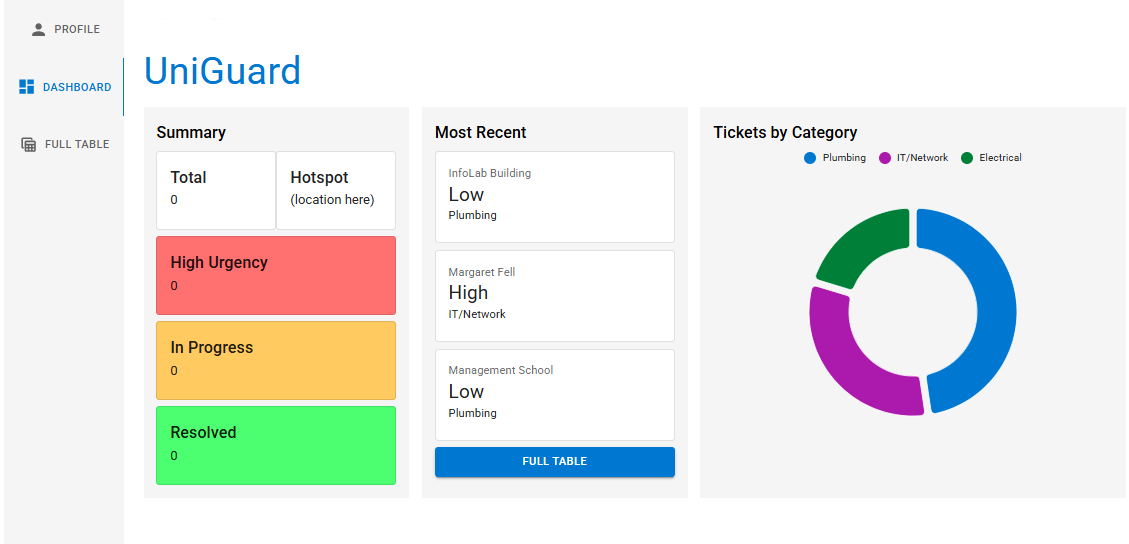
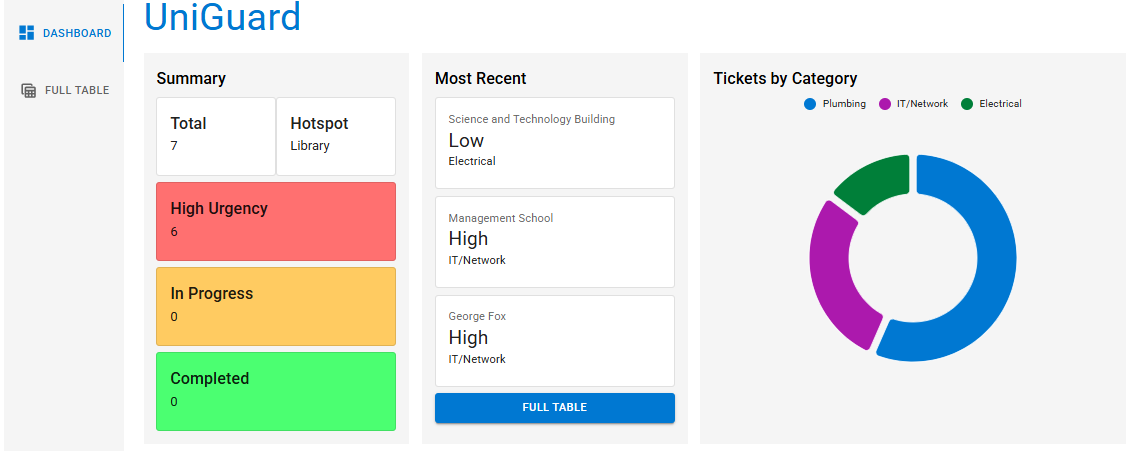
chore: code cleanup + updated README.md

diff --git a/frontend/src/components/Database.jsx b/frontend/src/components/Database.jsx
@@ -1,3 +1,7 @@
+// Base React Imports
+import { useState, useEffect } from "react";
+
+// Material UI Imports
 import {
     Box,
     Typography,
@@ -15,14 +19,19 @@ import {
     Tooltip,
 } from "@mui/material";
 import RefreshIcon from "@mui/icons-material/Refresh";
+
+// React Component Import
 import Sidebar from "./Sidebar.jsx";
-import { useState, useEffect } from "react";
-import { fetchTickets, updateTicketStatus } from "../services/api";
+
+// Constant Import
 import { DASHBOARD_REFRESH_RATE } from "../utils/constants.js";
+
+// API Functions Import
+import { fetchTickets, updateTicketStatus } from "../services/api";
 
 export default function AdminDashboard() {
     const [tickets, setTickets] = useState([]);
-    const [cooldown, setCooldown] = useState(false);
+    const [cooldown, setCooldown] = useState(false); // For our refresh button
 
     const loadData = async () => {
         try {
@@ -45,6 +54,7 @@ export default function AdminDashboard() {
         return () => clearInterval(timer);
     }, []);
 
+    // When we change the status of a ticket, we need to update our database
     const handleStatusChange = async (ticketID, newStatus) => {
         try {
             await updateTicketStatus(ticketID, newStatus);
@@ -56,6 +66,7 @@ export default function AdminDashboard() {
         }
     };
 
+    // We update ticket by using its UUID
     const updateByID = (arr, ticketID, newStatus) => {
         return arr.map((ticket) => {
             if (ticket.id === ticketID) {
@@ -66,7 +77,7 @@ export default function AdminDashboard() {
         });
     };
 
-    // Temporary, will improve
+    // Refresh Functions
     const autoRefreshDashboard = () => {
         setInterval(() => {
             fetchTickets();
@@ -82,8 +93,7 @@ export default function AdminDashboard() {
         }, 5000);
     };
 
-    autoRefreshDashboard();
-
+    // Get all of our tickets from our database
     const showTickets = () => {
         return tickets.map((ticket) => (
             <TableRow key={ticket.id}>

diff --git a/frontend/src/components/SummaryCards.jsx b/frontend/src/components/SummaryCards.jsx
@@ -1,3 +1,4 @@
+// Material UI Imports
 import {
     Stack,
     Card,
@@ -6,7 +7,11 @@ import {
     Button,
     Typography,
 } from "@mui/material";
+
+// Base React Import
 import { useState, useEffect } from "react";
+
+// API Function Import
 import { fetchTickets } from "../services/api";
 
 export default function SummaryCards() {
@@ -25,6 +30,7 @@ export default function SummaryCards() {
         getTickets();
     }, []);
 
+    // Ticket counts for Summary Cards
     const totalTicketCount = tickets.length;
     const highUrgencyCount = tickets.filter(
         (ticket) => ticket.urgency === "High",
@@ -37,7 +43,7 @@ export default function SummaryCards() {
     ).length;
 
     let hotspotLocation = "N/A";
-    let maxCount = 0;
+    let maxLocCount = 0;
     const locationCounts = {};
 
     tickets.forEach((ticket) => {
@@ -48,8 +54,9 @@ export default function SummaryCards() {
         locationCounts[ticket.location] =
             (locationCounts[ticket.location] || 0) + 1;
 
-        if (locationCounts[ticket.location] > maxCount) {
-            maxCount = locationCounts[ticket.location];
+        // If location's count is larger than the current max, then we set a new max and set the new hotspot location.
+        if (locationCounts[ticket.location] > maxLocCount) {
+            maxLocCount = locationCounts[ticket.location];
             hotspotLocation = ticket.location;
         }
     });

diff --git a/frontend/src/components/RecentCards.jsx b/frontend/src/components/RecentCards.jsx
@@ -1,3 +1,8 @@
+// Base React Imports
+import { Link } from "react-router-dom";
+import { useState, useEffect } from "react";
+
+// Material UI Imports
 import {
     Stack,
     Card,
@@ -6,8 +11,8 @@ import {
     Button,
     Typography,
 } from "@mui/material";
-import { Link } from "react-router-dom";
-import { useState, useEffect } from "react";
+
+// API Function Import
 import { fetchTickets } from "../services/api";
 
 export default function RecentCards() {

diff --git a/frontend/src/components/SummaryChart.jsx b/frontend/src/components/SummaryChart.jsx
@@ -1,10 +1,16 @@
-import { PieChart } from "@mui/x-charts/PieChart";
+// Base React Imports
 import { useState, useEffect } from "react";
+
+// React Chart Import
+import { PieChart } from "@mui/x-charts/PieChart";
+
+// API Function Import
 import { fetchTickets } from "../services/api";
 
 export default function SummaryChart() {
     const [chartData, setChartData] = useState([]);
 
+    // 3 colours for 3 categories
     const categoryColors = {
         Plumbing: "#1976d2",
         "IT/Network": "#9c27b0",

diff --git a/frontend/src/components/FullTable.jsx b/frontend/src/components/FullTable.jsx
@@ -1,5 +1,10 @@
-import { Box, Typography, Button } from "@mui/material";
+// Base React Import
 import { Link } from "react-router-dom";
+
+// Material UI Imports
+import { Box, Typography, Button } from "@mui/material";
+
+// React Component Imports
 import Sidebar from "./Sidebar";
 import Database from "./Database";
 

diff --git a/frontend/src/components/IssueContext.jsx b/frontend/src/components/IssueContext.jsx
@@ -1,5 +1,8 @@
-import { CAMPUS_LOCATIONS } from "../utils/constants";
+// Material UI Imports
 import { FormControl, InputLabel, Select, MenuItem } from "@mui/material";
+
+// Constant Import
+import { CAMPUS_LOCATIONS } from "../utils/constants";
 
 export default function IssueContext({ formData, handleChange }) {
     const { location, category } = formData;

diff --git a/frontend/src/components/Sidebar.jsx b/frontend/src/components/Sidebar.jsx
@@ -1,5 +1,8 @@
-import { Tabs, Tab, Box } from "@mui/material";
+// Base React Import
 import { Link, useLocation, Outlet } from "react-router-dom";
+
+// Material UI + Icon Imports
+import { Tabs, Tab, Box } from "@mui/material";
 import DashboardIcon from "@mui/icons-material/Dashboard";
 import TableViewIcon from "@mui/icons-material/TableView";
 import PersonIcon from "@mui/icons-material/Person";

diff --git a/frontend/src/App.jsx b/frontend/src/App.jsx
@@ -1,5 +1,8 @@
+// Base React Imports
 import { HashRouter, Routes, Route } from "react-router-dom";
 import { Typography } from "@mui/material";
+
+// React Component Imports
 import StudentForm from "./components/StudentForm";
 import FullTable from "./components/FullTable";
 import Profile from "./components/Profile";

diff --git a/frontend/src/components/AdminPage.jsx b/frontend/src/components/AdminPage.jsx
@@ -1,7 +1,9 @@
+// React Imports
 import { Box, Typography, Button } from "@mui/material";
 import { PieChart } from "@mui/x-charts/PieChart";
 import { Link } from "react-router-dom";
 
+// React Component Imports
 import SummaryCards from "./SummaryCards";
 import SummaryChart from "./SummaryChart";
 import RecentCards from "./RecentCards";

diff --git a/frontend/src/components/Profile.jsx b/frontend/src/components/Profile.jsx
@@ -1,3 +1,5 @@
+// NOTE: May do Profile code later on
+
 import { Typography, Button } from "@mui/material";
 import { Link } from "react-router-dom";
 

diff --git a/frontend/src/components/IssueDetails.jsx b/frontend/src/components/IssueDetails.jsx
@@ -1,3 +1,4 @@
+// Material UI Imports
 import {
     FormControl,
     InputLabel,

diff --git a/frontend/src/components/Success.jsx b/frontend/src/components/Success.jsx
@@ -1,3 +1,4 @@
+// Material UI Imports
 import { Typography, Button } from "@mui/material";
 
 export default function Success({ setFormData, setActiveStep }) {